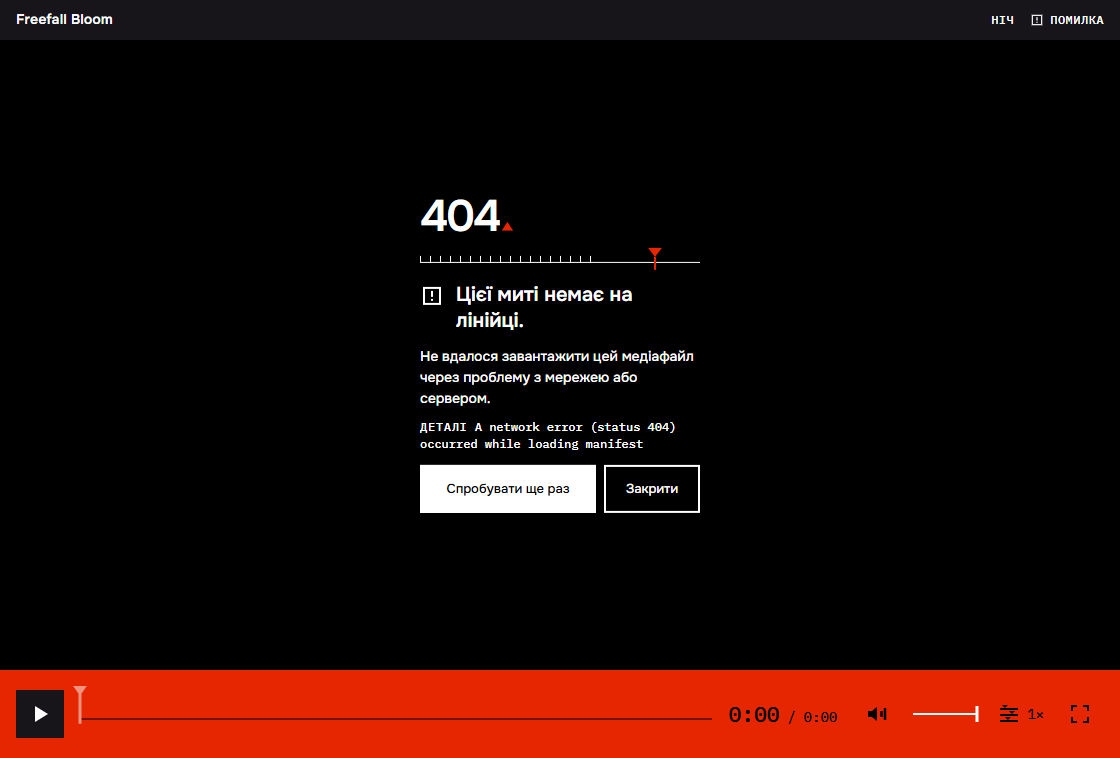
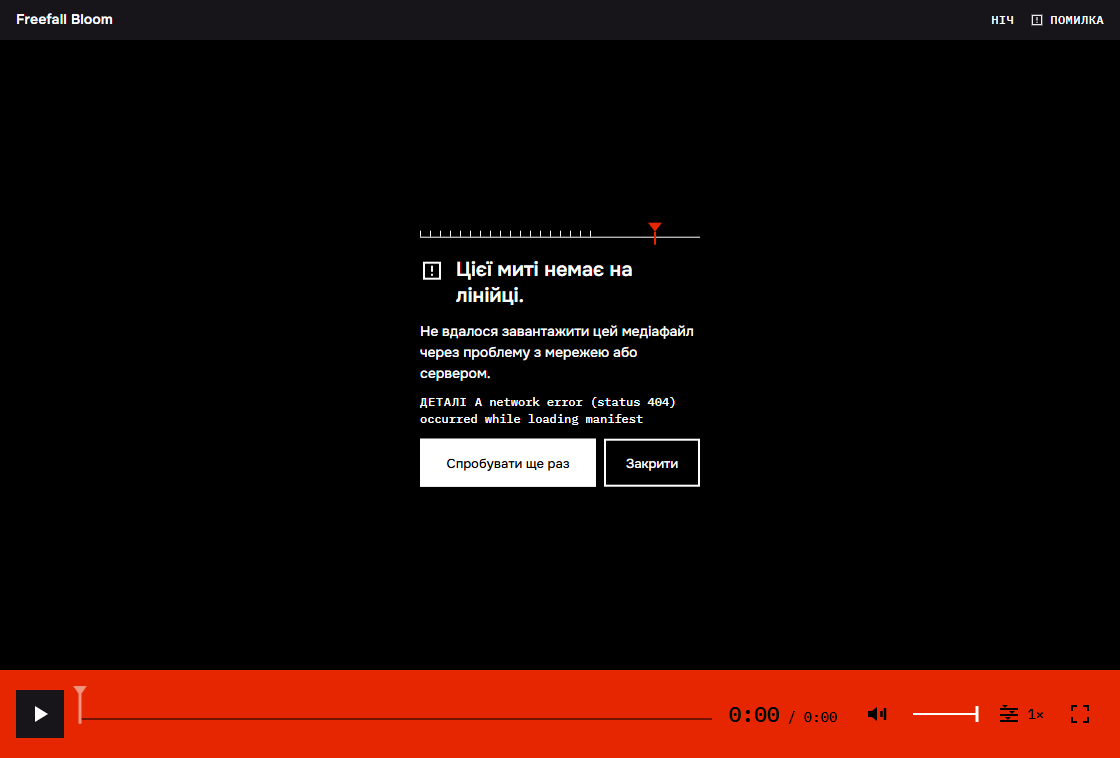
Simplify: plain headline full stops, no big code in the error, author's own-work credit
- Section headlines end with a plain full stop again (the red triangle read as a show/hide marker); the triangle stays on the main screen and on the 404 page.
- The error dialog drops the big server code; the grey detail line already names the kind of error. Error pictures (EN, UK) re-captured.
- Credits say the film and the music are the author's own work; the generator-terms note is removed.

Changed region(s): [[0.375, 0.2427, 0.625, 0.6979]]

diff --git a/apps/preview/src/demo/copy.ts b/apps/preview/src/demo/copy.ts
@@ -243,9 +243,9 @@ export const COPY: Record<string, Copy> = {
         ['Typography', 'Onest + IBM Plex Mono · OFL'],
         ['Demo film', 'Freefall Bloom · AI-generated film and music, by the author'],
       ],
-      rightsTitle: 'Demo footage & rights',
+      rightsTitle: 'Demo footage',
       rights: [
-        'The film is AI-generated and made by the author for this page, and the music is the author’s too. The terms for reusing it depend on the generator’s terms; they have not been confirmed here, so check them before reusing the film.',
+        'The film and the music are the author’s own work, made for this page.',
         'It is shown only to demonstrate the skin. This is a demonstration, not a client project.',
         'Player framework: Video.js v10, used under its own license.',
       ],
@@ -413,9 +413,9 @@ export const COPY: Record<string, Copy> = {
         ['Типографіка', 'Onest + IBM Plex Mono · OFL'],
         ['Демо-фільм', 'Freefall Bloom · фільм згенеровано ШІ, музика авторки'],
       ],
-      rightsTitle: 'Демо-відео та права',
+      rightsTitle: 'Демо-відео',
       rights: [
-        'Фільм згенеровано ШІ та створено авторкою для цієї сторінки, музика теж авторки. Умови його повторного використання залежать від умов генератора; тут їх не підтверджено, тож перевірте їх, перш ніж використовувати фільм деінде.',
+        'Фільм і музика — власна робота авторки, створена для цієї сторінки.',
         'Тут він лише демонструє скін. Це демонстрація, а не клієнтський проєкт.',
         'Фреймворк плеєра: Video.js v10 за його власною ліцензією.',
       ],

diff --git a/apps/preview/src/demo/main.tsx b/apps/preview/src/demo/main.tsx
@@ -40,19 +40,14 @@ const STATE_IMAGE: Record<StateKey, string> = {
 };
 const FRAME = { w: 1120, h: 758 };
 
-/** `stop`: a headline's full stop is drawn as the ruler's pin, a small red triangle, like the one after the product name. */
-function Lines({ text, stop = false }: { text: string; stop?: boolean }) {
+function Lines({ text }: { text: string }) {
   return (
     <>
-      {text.split('\n').map((line) => {
-        const end = stop && line.endsWith('.');
-        return (
-          <span key={line} className="sc-line">
-            {end ? line.slice(0, -1) : line}
-            {end ? <span className="sc-stop" aria-hidden="true" /> : null}{' '}
-          </span>
-        );
-      })}
+      {text.split('\n').map((line) => (
+        <span key={line} className="sc-line">
+          {line}{' '}
+        </span>
+      ))}
     </>
   );
 }
@@ -245,7 +240,7 @@ function SectionHead({ id, title, text }: { id: string; title: string; text?: st
   return (
     <div className="sc-head">
       <h2 id={id}>
-        <Lines text={title} stop />
+        <Lines text={title} />
       </h2>
       {text ? <p>{text}</p> : null}
     </div>
@@ -380,7 +375,7 @@ function Responsive({ copy, formats }: { copy: Copy['responsive']; formats: Copy
     <section className="sc-section sc-responsive" aria-labelledby="sc-responsive">
       <div className="sc-responsive-text">
         <h2 id="sc-responsive">
-          <Lines text={copy.title} stop />
+          <Lines text={copy.title} />
         </h2>
         <p>{copy.text}</p>
       </div>

diff --git a/src/video/shared/error-dialog.tsx b/src/video/shared/error-dialog.tsx
@@ -51,18 +51,9 @@ function ErrorText() {
   );
 }
 
-/** The server's answer, when the engine's message carries one ("... (status 404) ..."): shown big, like the 404 page. */
-function useHttpStatus(): number | null {
-  const message = usePlayer((s) => s.error?.message) ?? '';
-  const match = /status\s+(\d{3})/i.exec(message);
-  const status = match ? Number(match[1]) : null;
-  return status !== null && status >= 400 && status < 600 ? status : null;
-}
-
 export function ErrorDialog() {
   const retry = useRetry();
   const copy = useCopy();
-  const status = useHttpStatus();
   return (
     <ErrorDialogPrimitive.Root>
       <ErrorDialogPrimitive.Backdrop
@@ -76,12 +67,6 @@ export function ErrorDialog() {
           'media-high-contrast:border media-high-contrast:border-solid media-high-contrast:border-current forced-colors:border forced-colors:border-solid forced-colors:border-[CanvasText]'
         )}
       >
-        {status ? (
-          <div className="signal-error-code" aria-hidden="true">
-            {status}
-            <span className="signal-error-stop" />
-          </div>
-        ) : null}
         {/* The ruler of the player with the pin past its last tick: this moment is not on it (as on the 404 page). */}
         <div className="signal-error-ruler" aria-hidden="true">
           <span className="signal-error-ticks" />

diff --git a/src/styles/signal.css b/src/styles/signal.css
@@ -1084,22 +1084,3 @@
   .signal-error-ruler { display: none; }
   .signal-error-lead { font-size: 15px; line-height: 20px; }
 }
-
-/* The server's answer (404, 503...) when the engine reports one: big type with the pin as its full stop, like the 404 page. */
-.signal-error-code {
-  font-size: 44px;
-  font-weight: 600;
-  line-height: 0.9;
-  letter-spacing: -0.045em;
-}
-.signal-error-stop {
-  display: inline-block;
-  width: 0.26em;
-  height: 0.2em;
-  margin-left: 0.06em;
-  background: var(--signal-red);
-  clip-path: polygon(50% 0, 100% 100%, 0 100%);
-}
-@container media-root (max-width: 559.98px) {
-  .signal-error-code { display: none; }
-}

diff --git a/apps/preview/src/demo/showcase.css b/apps/preview/src/demo/showcase.css
@@ -1515,13 +1515,3 @@
   padding: 0 22px;
   font-size: 18px;
 }
-
-/* The full stop of a section headline is the ruler's pin: a red triangle pointing up, standing on the baseline (the same shape as the one after the product name). */
-.sc-stop {
-  display: inline-block;
-  width: 0.36em;
-  height: 0.29em;
-  margin-left: 0.08em;
-  background: var(--accent);
-  clip-path: polygon(50% 0, 100% 100%, 0 100%);
-}

diff --git a/design/spec.md b/design/spec.md
@@ -150,7 +150,7 @@ A real 36:00 MP4 was generated with ffmpeg (test pattern with a running counter,
 
 ## Demo footage swapped to the fashion film
 
-- The showcase player now plays `apps/preview/public/media/scarlet-walk.mp4`, an AI-generated 10-second fashion film (Kling 2.6 Pro through Flora: two 5-second clips, the second started from the last frame of the first, joined by a straight cut). A plain MP4 through the `Video` component; no Mux. Title "Scarlet Walk", labeled "Demo footage"; the author line stays empty. Credits tell readers to check the generator's terms before reusing it.
+- The showcase player now plays `apps/preview/public/media/scarlet-walk.mp4`, an AI-generated 10-second fashion film (Kling 2.6 Pro through Flora: two 5-second clips, the second started from the last frame of the first, joined by a straight cut). A plain MP4 through the `Video` component; no Mux. Title "Scarlet Walk", labeled "Demo footage"; the author line stays empty. Credits say the film and the music are the author's own work.
 - Tracks written for it: chapters (Approach, Silhouette), English captions (three short lines of original text), and a ruler storyboard (a 10-frame sprite sheet `thumbs.jpg` with `thumbs.vtt`), so previews, chapters and captions all work. Quality is absent (a single MP4), as the skin intends.
 - All showcase frames and the recorded clip were captured again from this video. The Restored frame is taken on a 36-minute copy (the film looped, `apps/preview/_local/long-scarlet.mp4`, git-ignored), because saved positions apply only to videos longer than 15 seconds; the page says so. The Loading and Error frames come from stalling and blocking the MP4.
 - Checks again (Chrome, Windows): widths 320, 375, 768, 1440 without horizontal scroll or console errors, all images and the clip load, all six gallery toggles load their images, the recording plays from its button while the main player stays idle, the workbench and preview page load the skin.
@@ -462,3 +462,8 @@ The title is one line ("Player states." / «Стани плеєра.») so the s
 - The demo's chapters and captions have a Ukrainian pair (`chapters.uk.vtt`, `captions.uk.vtt`), chosen by the player's language, so the Ukrainian page shows Ukrainian chapters and subtitles.
 - The error dialog shows the server's answer big, with the pin as its full stop, when the engine's message carries one ("status 404"); with no answer (offline) only the ruler and the line show. `?nofallback` keeps a Mux failure on screen (the demo normally falls back to the bundled MP4), which is how the Error picture is captured (a real 404 from the stream). The engine's own detail line stays English (it is not translated).
 - Checked: every UK string is Cyrillic except key names, "Safari." and the font names.
+
+## Triangles and the error code, simplified (Nov 14)
+
+- The red triangle after section headlines was removed: it read as a show/hide marker. Headlines end with a plain full stop again. The triangle stays only where it is a pure accent: after the product name on the main screen and on the 404 page.
+- The error dialog no longer prints a big code. It keeps the ruler with the pin, the line "This moment is not on the ruler." and the grey detail line, which already names the kind of error (for example "status 404"). The Error pictures (EN and UK) were re-captured.

diff --git a/README.md b/README.md
@@ -110,5 +110,5 @@ Notes: the automated checks ran in headless Chrome on Windows, with no manual se
 - Skin code: Apache License 2.0, Copyright 2026 Trusova Natalia. See [`LICENSE`](./LICENSE).
 - Fonts are not under the code license. Onest (Copyright 2021 The Onest Project Authors) and IBM Plex Mono (Copyright 2017 IBM Corp.) are under the SIL Open Font License 1.1; the texts are in `src/fonts/` and `apps/preview/public/font-licenses/`.
 - Video.js and the other dependencies keep their own licenses.
-- Demo footage: an AI-generated 30-second animated film with its own music, both by the author (five scenes: night, storm, sky, petals, sunset; `apps/preview/public/media/freefall-bloom.mp4`), streamed from Mux with the bundled MP4 as a fallback, with chapters, captions and a ruler storyboard written for it. Check the generator's terms before reusing it; it is shown only to demonstrate the skin. Replace it with your own video.
+- Demo footage: an AI-generated 30-second animated film with its own music, both by the author (five scenes: night, storm, sky, petals, sunset; `apps/preview/public/media/freefall-bloom.mp4`), streamed from Mux with the bundled MP4 as a fallback, with chapters, captions and a ruler storyboard written for it. It is the author's own work and is shown only to demonstrate the skin. Replace it with your own video.
 - Showcase images and the clip are captures of this skin playing that demo footage.
